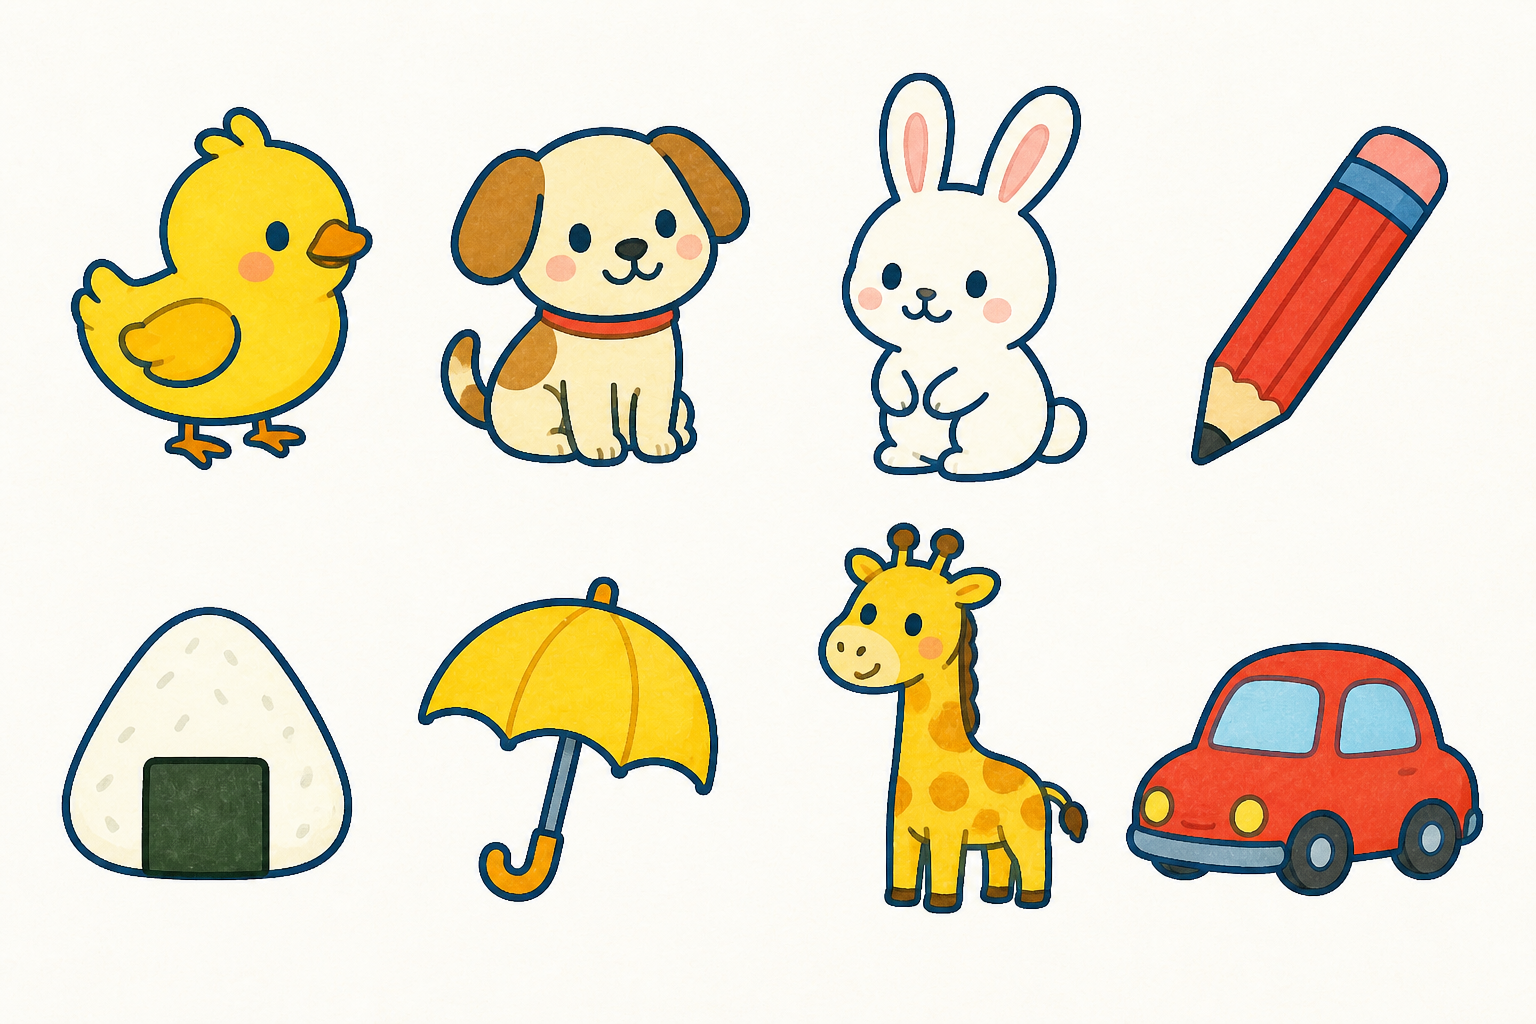
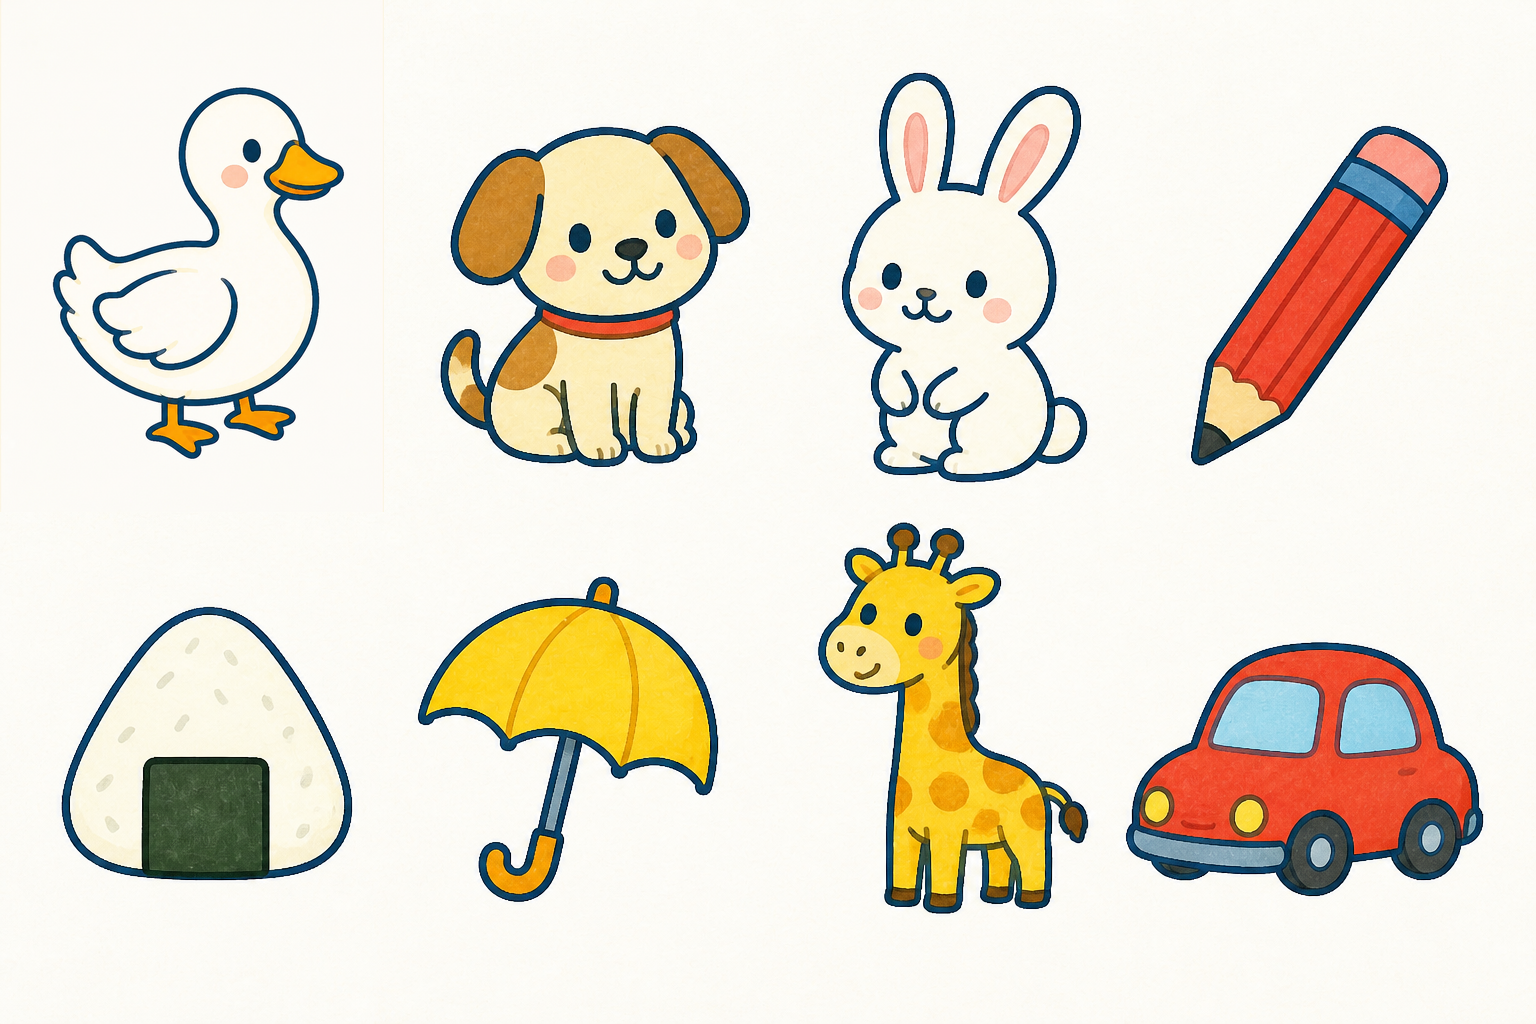
あひるの絵と文字の関連付けを修正

Changed region(s): [[0.0312, 0.0625, 0.25, 0.4688]]

diff --git a/src/features/lesson/LessonScreen.tsx b/src/features/lesson/LessonScreen.tsx
@@ -3,7 +3,8 @@ import { useEffect, useMemo, useRef } from "react";
 import type { AudioGuide } from "../../platform/audio/AudioGuide";
 import { useFullscreen } from "../../platform/fullscreen/useFullscreen";
 import { getIllustration, getWorldIllustration } from "../learning/content/assetCatalog";
-import { KANA_ORDER, findKana } from "../learning/content/kana";
+import { KANA_ORDER, findKana, kanaAssociationLabel } from "../learning/content/kana";
+import type { KanaEntry } from "../learning/content/types";
 import type { LearningState, LessonEvent } from "../learning/model/types";
 import { ChoiceGrid } from "./ChoiceGrid";
 import { PromptCard } from "./PromptCard";
@@ -25,18 +26,19 @@ export interface LessonScreenProps {
 type GuideKey = "intro" | "shape" | "sound" | "again" | "show" | "traceWide" | "traceNarrow" | "copyWithModel" | "freeWrite" | "reward";
 
 /** 画面と読み上げが必ず同じ案内を使うための、短いコンテンツ辞書。 */
-function guideMessage(key: GuideKey, character: string): string {
+function guideMessage(key: GuideKey, entry: KanaEntry): string {
+  const association = kanaAssociationLabel(entry);
   const messages: Record<GuideKey, string> = {
-    intro: `${character} に あってみよう`,
-    shape: `おなじ かたちの ${character} を さがそう`,
-    sound: `こえと えを きいて、もじを さがそう`,
-    again: `もういちど、ゆっくり みてみよう`,
-    show: `${character} を おしてみよう`,
+    intro: association,
+    shape: `${association}。おなじ かたちを さがそう`,
+    sound: `${association}。こえと えで もじを さがそう`,
+    again: `もういちど、${association}。ゆっくり みてみよう`,
+    show: `${association}。おなじ もじを おしてみよう`,
     traceWide: "ふとい みちを なぞろう",
     traceNarrow: "ほそい みちを なぞろう",
     copyWithModel: "おてほんを みて かこう",
     freeWrite: "じぶんで かいてみよう",
-    reward: `${character} の はなが さいたよ`,
+    reward: `${entry.character} の はなが さいたよ`,
   };
   return messages[key];
 }
@@ -87,7 +89,7 @@ export function LessonScreen({ state, dispatch, audio, speechEnabled = true, onR
     : state.stage === "soundMatch"
       ? stageAttempts >= 3 ? "show" : stageAttempts >= 1 ? "again" : "sound"
       : state.stage;
-  const guide = guideMessage(guideKey, entry.character);
+  const guide = guideMessage(guideKey, entry);
   const stageIdentityRef = useRef(stageIdentity);
   const guideRef = useRef(guide);
   stageIdentityRef.current = stageIdentity;

diff --git a/src/features/garden/RowReviewScreen.tsx b/src/features/garden/RowReviewScreen.tsx
@@ -2,7 +2,7 @@ import { useEffect, useMemo, useRef } from "react";
 
 import type { AudioGuide } from "../../platform/audio/AudioGuide";
 import { getWorldIllustration } from "../learning/content/assetCatalog";
-import { KANA_ENTRIES, findKana } from "../learning/content/kana";
+import { KANA_ENTRIES, findKana, kanaAssociationLabel } from "../learning/content/kana";
 import type { KanaCharacter } from "../learning/content/types";
 import type { LearningState, LessonEvent } from "../learning/model/types";
 import { ChoiceGrid } from "../lesson/ChoiceGrid";
@@ -38,9 +38,10 @@ export function RowReviewScreen({ state, dispatch, audio }: RowReviewScreenProps
   const attempt = state.progress.lessonAttempt?.character === entry.character && state.progress.lessonAttempt.stage === state.stage
     ? state.progress.lessonAttempt.count
     : 0;
+  const association = kanaAssociationLabel(entry);
   const guide = isShape
-    ? attempt >= 2 ? `${entry.character} を みつけよう` : `${entry.character} と おなじ かたちを さがそう`
-    : attempt >= 2 ? `${entry.character} を きいて さがそう` : "こえを きいて もじを さがそう";
+    ? attempt >= 2 ? `${association}。おなじ もじを おしてみよう` : `${association}。おなじ かたちを さがそう`
+    : attempt >= 2 ? `${association}。こえを きいて さがそう` : `${association}。こえを きいて もじを さがそう`;
   const stageIdentity = `${entry.character}-${step}-${attempt}`;
   const mountedRef = useRef(true);
   const replayRequestRef = useRef(0);

diff --git a/src/features/lesson/LessonScreen.test.tsx b/src/features/lesson/LessonScreen.test.tsx
@@ -7,6 +7,21 @@ import { createLessonChoices } from "./LessonScreen";
 import type { AudioGuide } from "../../platform/audio/AudioGuide";
 
 describe("LessonScreen", () => {
+  it("形合わせはイラスト名と文字を結び付けて画面表示と読み上げに使う", () => {
+    const audio: AudioGuide = {
+      unlock: vi.fn().mockResolvedValue("ready"),
+      speak: vi.fn().mockResolvedValue(undefined),
+      cancel: vi.fn(),
+      getStatus: () => "ready",
+    };
+
+    renderLesson({ currentKana: "あ", stage: "shapeMatch", audio });
+
+    const guide = "あひるの あ。おなじ かたちを さがそう";
+    expect(screen.getByText(guide)).toBeVisible();
+    expect(audio.speak).toHaveBeenCalledWith(guide, { interrupt: true });
+  });
+
   it("形合わせは問題に絵と大きな文字を出し、選択肢を文字だけにする", () => {
     renderLesson({ currentKana: "あ", stage: "shapeMatch" });
 
@@ -63,6 +78,7 @@ describe("LessonScreen", () => {
     const choices = screen.getAllByRole("button", { name: /もじ/ });
 
     fireEvent.click(choices.find((choice) => choice.textContent !== "あ")!);
+    expect(screen.getByText("もういちど、あひるの あ。ゆっくり みてみよう")).toBeVisible();
     fireEvent.click(choices.find((choice) => choice.textContent !== "あ")!);
     fireEvent.click(choices.find((choice) => choice.textContent !== "あ")!);
 

diff --git a/src/features/learning/content/kana.test.ts b/src/features/learning/content/kana.test.ts
@@ -1,6 +1,6 @@
 import { describe, expect, expectTypeOf, it } from "vitest";
 
-import { KANA_ENTRIES, KANA_ORDER, findKana } from "./kana";
+import { KANA_ENTRIES, KANA_ORDER, findKana, kanaAssociationLabel } from "./kana";
 import type { KanaCharacter, KanaEntry } from "./types";
 import { validateKanaEntries } from "./validateContent";
 
@@ -10,6 +10,19 @@ function asKanaEntriesForAudit(entries: readonly unknown[]): readonly KanaEntry[
 }
 
 describe("五十音コンテンツ", () => {
+  it("イラストの語と文字を通常文字・を・んで自然な案内へ結び付ける", () => {
+    expect(kanaAssociationLabel(findKana("あ"))).toBe("あひるの あ");
+    expect(kanaAssociationLabel(findKana("い"))).toBe("いぬの い");
+    expect(kanaAssociationLabel(findKana("を"))).toBe("りんごを たべる。もじの を");
+    expect(kanaAssociationLabel(findKana("ん"))).toBe("ぱんの さいごの、ん");
+    for (const entry of KANA_ENTRIES) {
+      expect(kanaAssociationLabel(entry)).toContain(entry.spokenLabel);
+      if (!entry.specialUsage) {
+        expect(kanaAssociationLabel(entry)).toBe(`${entry.spokenLabel}の ${entry.character}`);
+      }
+    }
+  });
+
   it("設計順どおり46文字を重複なく持つ", () => {
     expect(KANA_ENTRIES.map(({ character }) => character)).toEqual([
       "あ", "い", "う", "え", "お", "か", "き", "く", "け", "こ",

diff --git a/src/features/garden/RowReviewScreen.test.tsx b/src/features/garden/RowReviewScreen.test.tsx
@@ -24,6 +24,7 @@ describe("RowReviewScreen", () => {
     const { rerender } = render(<RowReviewScreen state={reviewState("よ", "ya", "shape")} dispatch={dispatch} audio={audio} />);
 
     expect(screen.getByTestId("row-review")).toHaveAttribute("data-step", "shape");
+    expect(screen.getByText("よっとの よ。おなじ かたちを さがそう")).toBeVisible();
     expect(screen.getByTestId("prompt-character")).toHaveTextContent("よ");
     expect(screen.getAllByRole("button", { name: /^もじ / })).toHaveLength(3);
     expect(screen.getByRole("button", { name: "もじ や" })).toBeVisible();

diff --git a/src/features/learning/content/kana.ts b/src/features/learning/content/kana.ts
@@ -65,3 +65,10 @@ export function findKana(character: KanaCharacter): KanaEntry {
 
   return entry;
 }
+
+/** イラストの語と学習文字を、頭文字でない「を」「ん」も含め自然に結び付ける。 */
+export function kanaAssociationLabel(entry: KanaEntry): string {
+  if (entry.specialUsage === "particle") return `${entry.spokenLabel}。もじの ${entry.character}`;
+  if (entry.specialUsage === "wordEnding") return entry.spokenLabel;
+  return `${entry.spokenLabel}の ${entry.character}`;
+}

diff --git a/AGENTS.md b/AGENTS.md
@@ -1,0 +1,8 @@
+# Hiragana Study 固有ルール
+
+## 幼児向け教材の意味対応
+
+- `KanaEntry`の`spokenLabel`・`illustrationKey`・実画像は、3歳児が見て同じ対象だと判断できる意味・種類・成長段階で一致させる。画像の寸法・容量・余白検査だけで意味一致を合格にしない。
+- ひらがなの絵を追加・差し替えた場合は、個別画像を原寸で開き、46件contact sheetでも隣接教材との混同がないことを確認する。動物は種類と成長段階を明記して確認する（例: 成鳥のあひると、ひよこを区別する）。
+- 通常文字の絵付き導入・形合わせ・音合わせは、画面表示と`AudioGuide`の両方で「`${spokenLabel}の ${character}`」を使う。頭文字ではない`を`・`ん`は`kanaAssociationLabel`の特殊用法を使い、頭文字として偽装しない。
+- 完了前に、代表文字の実画面テストで表示文言・画像alt・読み上げ要求を同時に確認し、全46文字の関連付けはコンテンツテストで監査する。
